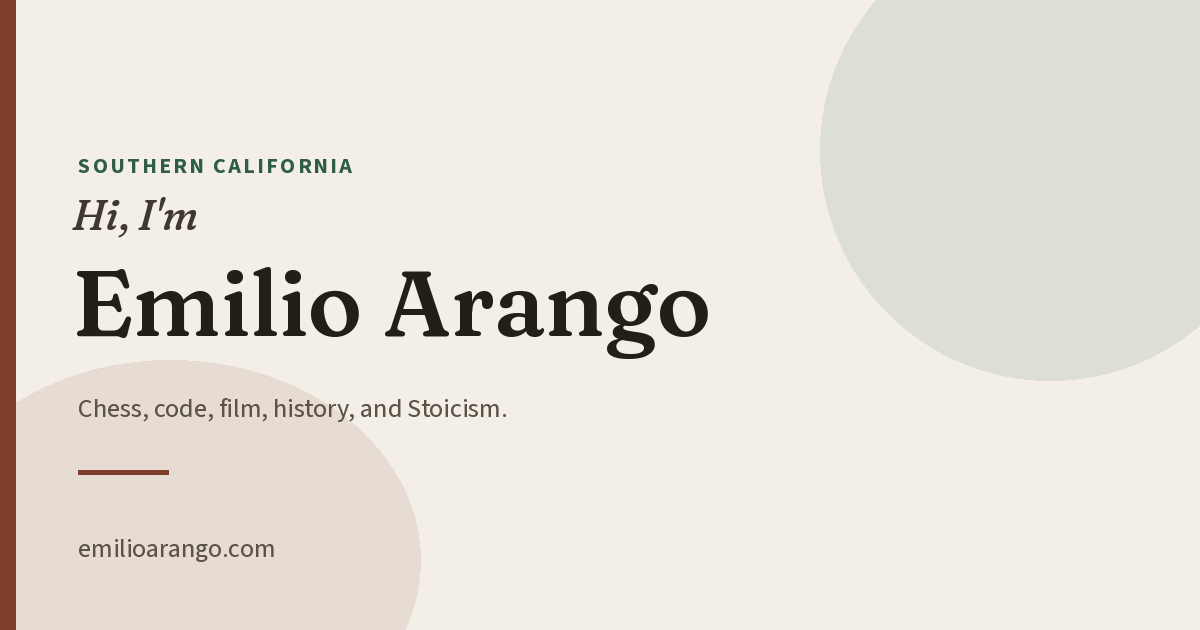
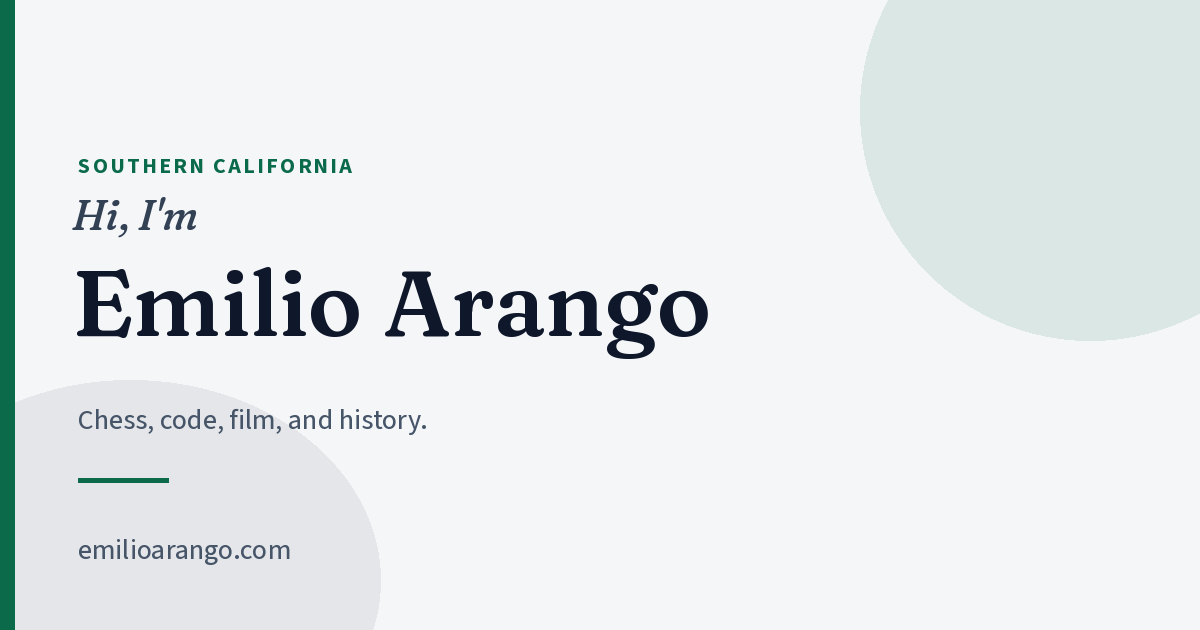
Shift the personal site to a cool navy and emerald palette.
Light pages sit on crisp off-white, dark pages on ink navy, with emerald as the only accent. Stoicism is no longer named; the quieter line stays in the about copy.

diff --git a/src/styles/global.css b/src/styles/global.css
@@ -62,85 +62,85 @@
   );
   --font-sans: "Source Sans 3", ui-sans-serif, system-ui, sans-serif;
   --font-display: Fraunces, "Iowan Old Style", Palatino, Georgia, serif;
-  --color-bg: #f3eee6;
-  --color-bg-raised: #fffdf9;
-  --color-ink: #231e18;
-  --color-secondary: #3f3830;
-  --color-muted: #5c5348;
-  --color-line: #e4dacb;
-  --color-line-strong: #d2c4b2;
-  --color-accent: #7d3f2b;
-  --color-accent-ink: #fffdf9;
-  --color-accent-hover: #6e3624;
-  --color-accent-text: #7a3b28;
-  --color-laurel: #2f5d45;
-  --color-mark-bg: #f6e6dc;
-  --color-todo-bg: #f4e7d6;
-  --color-todo-ink: #231e18;
-  --color-todo-mark: #7d3f2b;
-  --color-medallion: #fffdf9;
-  --color-glow: rgba(125, 63, 43, 0.13);
-  --color-glow-2: rgba(47, 93, 69, 0.11);
+  --color-bg: #f4f6f8;
+  --color-bg-raised: #ffffff;
+  --color-ink: #0f172a;
+  --color-secondary: #334155;
+  --color-muted: #475569;
+  --color-line: #e2e8f0;
+  --color-line-strong: #cbd5e1;
+  --color-accent: #0b6a4a;
+  --color-accent-ink: #ffffff;
+  --color-accent-hover: #0a5c42;
+  --color-accent-text: #0b6a4a;
+  --color-laurel: #0b6a4a;
+  --color-mark-bg: #e6f4ee;
+  --color-todo-bg: #eef2f6;
+  --color-todo-ink: #0f172a;
+  --color-todo-mark: #0b6a4a;
+  --color-medallion: #ffffff;
+  --color-glow: rgba(11, 106, 74, 0.1);
+  --color-glow-2: rgba(15, 23, 42, 0.05);
   --shadow:
-    0 1px 2px rgba(48, 32, 18, 0.05), 0 10px 24px rgba(48, 32, 18, 0.05);
-  --shadow-lift: 0 14px 30px rgba(48, 32, 18, 0.11);
-  --color-selection: #f0d3c6;
-  --color-inverse: #fffdf9;
+    0 1px 2px rgba(15, 23, 42, 0.05), 0 10px 24px rgba(15, 23, 42, 0.06);
+  --shadow-lift: 0 14px 30px rgba(15, 23, 42, 0.12);
+  --color-selection: #d7ebe3;
+  --color-inverse: #ffffff;
 }
 
 :root[data-theme="dark"] {
   color-scheme: dark;
-  --color-bg: #161310;
-  --color-bg-raised: #241e19;
-  --color-ink: #f6f0e8;
-  --color-secondary: #e6ddd3;
-  --color-muted: #c4b8aa;
-  --color-line: #3c342c;
-  --color-line-strong: #544a40;
-  --color-accent: #e7b497;
-  --color-accent-ink: #231e18;
-  --color-accent-hover: #f0c2a4;
-  --color-accent-text: #f0c2a4;
-  --color-laurel: #b7d0c0;
-  --color-mark-bg: #3a2c24;
-  --color-todo-bg: #3a2e24;
-  --color-todo-ink: #f6f0e8;
-  --color-todo-mark: #e7b497;
-  --color-medallion: #2c241d;
-  --color-glow: rgba(231, 180, 151, 0.16);
-  --color-glow-2: rgba(183, 208, 192, 0.09);
+  --color-bg: #0f172a;
+  --color-bg-raised: #1e293b;
+  --color-ink: #f8fafc;
+  --color-secondary: #e2e8f0;
+  --color-muted: #a8b6c8;
+  --color-line: #334155;
+  --color-line-strong: #475569;
+  --color-accent: #34d399;
+  --color-accent-ink: #0f172a;
+  --color-accent-hover: #5ee9b5;
+  --color-accent-text: #7ddeba;
+  --color-laurel: #7ddeba;
+  --color-mark-bg: #14352c;
+  --color-todo-bg: #162536;
+  --color-todo-ink: #f8fafc;
+  --color-todo-mark: #7ddeba;
+  --color-medallion: #1e293b;
+  --color-glow: rgba(52, 211, 153, 0.16);
+  --color-glow-2: rgba(148, 163, 184, 0.08);
   --shadow: 0 1px 2px rgba(0, 0, 0, 0.35), 0 12px 28px rgba(0, 0, 0, 0.28);
   --shadow-lift: 0 16px 36px rgba(0, 0, 0, 0.45);
-  --color-selection: #5c3d30;
-  --color-inverse: #161310;
+  --color-selection: #134e4a;
+  --color-inverse: #0f172a;
 }
 
 @media (prefers-color-scheme: dark) {
   :root:not([data-theme="light"]) {
     color-scheme: dark;
-    --color-bg: #161310;
-    --color-bg-raised: #241e19;
-    --color-ink: #f6f0e8;
-    --color-secondary: #e6ddd3;
-    --color-muted: #c4b8aa;
-    --color-line: #3c342c;
-    --color-line-strong: #544a40;
-    --color-accent: #e7b497;
-    --color-accent-ink: #231e18;
-    --color-accent-hover: #f0c2a4;
-    --color-accent-text: #f0c2a4;
-    --color-laurel: #b7d0c0;
-    --color-mark-bg: #3a2c24;
-    --color-todo-bg: #3a2e24;
-    --color-todo-ink: #f6f0e8;
-    --color-todo-mark: #e7b497;
-    --color-medallion: #2c241d;
-    --color-glow: rgba(231, 180, 151, 0.16);
-    --color-glow-2: rgba(183, 208, 192, 0.09);
+    --color-bg: #0f172a;
+    --color-bg-raised: #1e293b;
+    --color-ink: #f8fafc;
+    --color-secondary: #e2e8f0;
+    --color-muted: #a8b6c8;
+    --color-line: #334155;
+    --color-line-strong: #475569;
+    --color-accent: #34d399;
+    --color-accent-ink: #0f172a;
+    --color-accent-hover: #5ee9b5;
+    --color-accent-text: #7ddeba;
+    --color-laurel: #7ddeba;
+    --color-mark-bg: #14352c;
+    --color-todo-bg: #162536;
+    --color-todo-ink: #f8fafc;
+    --color-todo-mark: #7ddeba;
+    --color-medallion: #1e293b;
+    --color-glow: rgba(52, 211, 153, 0.16);
+    --color-glow-2: rgba(148, 163, 184, 0.08);
     --shadow: 0 1px 2px rgba(0, 0, 0, 0.35), 0 12px 28px rgba(0, 0, 0, 0.28);
     --shadow-lift: 0 16px 36px rgba(0, 0, 0, 0.45);
-    --color-selection: #5c3d30;
-    --color-inverse: #161310;
+    --color-selection: #134e4a;
+    --color-inverse: #0f172a;
   }
 }
 
@@ -501,7 +501,7 @@
     width: 100%;
     height: auto;
     overflow: visible;
-    filter: drop-shadow(0 10px 16px rgba(48, 32, 18, 0.08));
+    filter: drop-shadow(0 10px 16px rgba(15, 23, 42, 0.12));
     transform-origin: center;
   }
 
@@ -924,19 +924,7 @@
 
 @media (min-width: 1040px) {
   .interest-grid {
-    grid-template-columns: repeat(6, minmax(0, 1fr));
-  }
-
-  .interest-card {
-    grid-column: span 2;
-  }
-
-  .interest-card:nth-child(4) {
-    grid-column: 2 / span 2;
-  }
-
-  .interest-card:nth-child(5) {
-    grid-column: 4 / span 2;
+    grid-template-columns: repeat(4, minmax(0, 1fr));
   }
 }
 

diff --git a/src/config/index.ts b/src/config/index.ts
@@ -19,19 +19,18 @@ export const SITE = {
   title: "Emilio Arango",
   jobTitle: "Systems Administrator",
   description:
-    "Emilio Arango, in Southern California. Chess, code, film, history, and Stoicism.",
+    "Emilio Arango, in Southern California. Chess, code, film, and history.",
   url: "https://emilioarango.com",
   lang: "en",
   locale: "en_US",
   ogImage: "/og-image.png",
-  ogImageAlt: "Emilio Arango. Chess, code, film, history, and Stoicism.",
+  ogImageAlt: "Emilio Arango. Chess, code, film, and history.",
   knowsAbout: [
     "Chess",
     "Artificial intelligence",
     "Programming",
     "Film",
     "History",
-    "Stoicism",
   ],
 };
 
@@ -43,13 +42,13 @@ export const NAV: NavLink[] = [
 
 export const HERO = {
   kicker: "Southern California",
-  line: "I play chess, write code, watch films, and read history and the Stoics.",
+  line: "I play chess, write code, watch films, and read history.",
 };
 
 export const ABOUT = {
   lead: "I live in Southern California. The days I like best have a game, a film, or a book that is much older than I am.",
   detail:
-    "I write software for the fun of seeing an idea work, and I use AI while I build. Stoicism is how I try to keep the rest of it in proportion.",
+    "I write software for the fun of seeing an idea work, and I use AI while I build. The rest of the day I try to keep in proportion.",
 };
 
 export const INTERESTS: Interest[] = [
@@ -69,11 +68,6 @@ export const INTERESTS: Interest[] = [
     name: "History",
     summary:
       "The long view, and what the last few millennia still have to say.",
-  },
-  {
-    name: "Stoicism",
-    summary:
-      "A philosophy I come back to when I want less noise and a clearer day.",
   },
 ];
 
